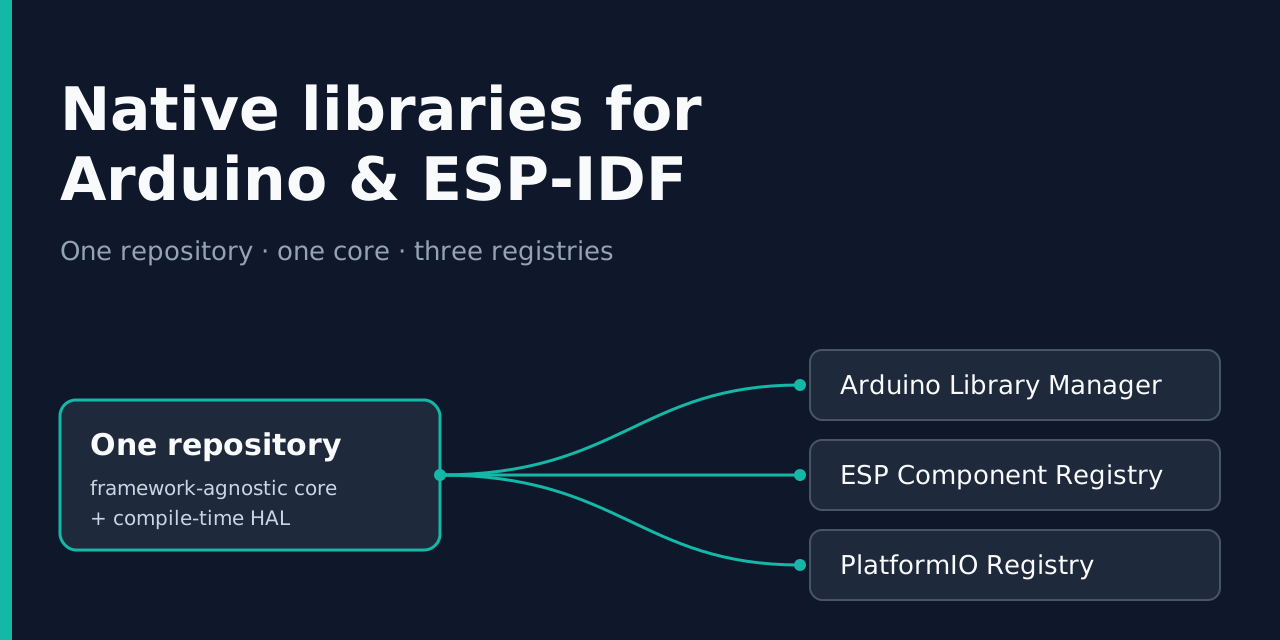
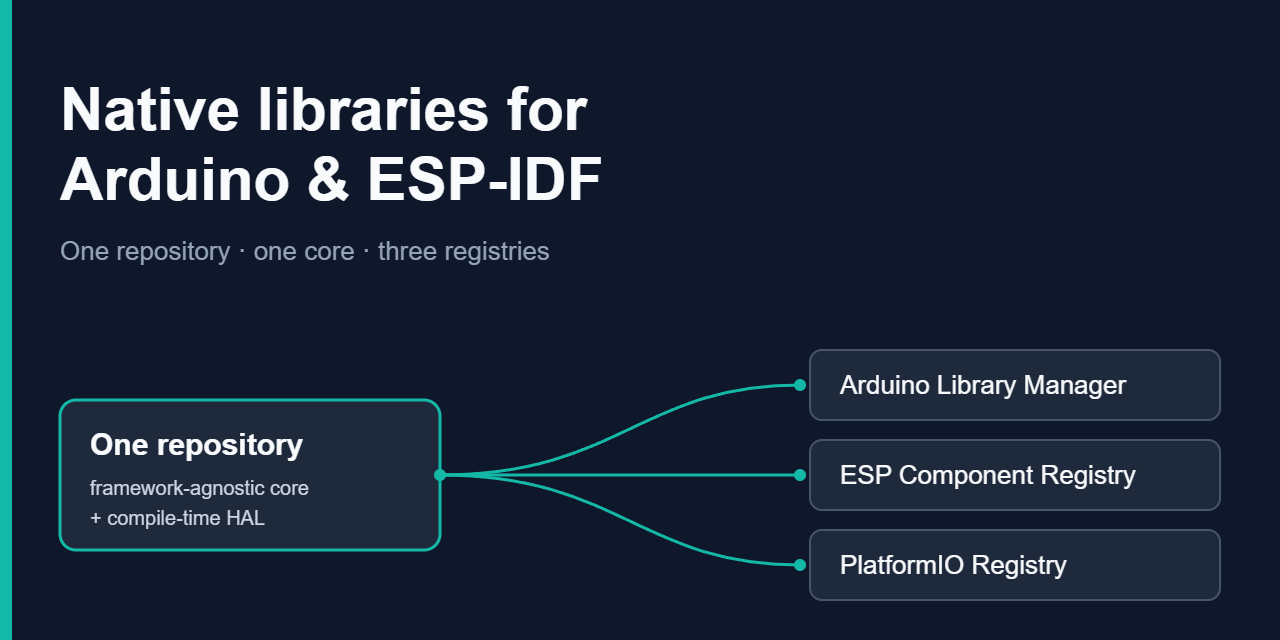
refactor the guide

diff --git a/chapters/06-minimal-example.md b/chapters/06-minimal-example.md
@@ -1,12 +1,12 @@
-# Appendix E — A Minimal Example
+# Chapter 6 — A Minimal Example
 
-This appendix puts the guide together in the smallest library that follows its rules: a `DualBlinkCpp` class that blinks one pin without blocking, through a compile-time HAL shared by Arduino and ESP-IDF. The buildable version lives in the [DualBlinkCpp - v1.1.1](https://github.com/FMazz97/DualBlinkCpp) repository, and the code below is a copy at the same tag, without the Doxygen comments (see them for complete details). The `Cpp` suffix keeps the plain `DualBlink` name free for a future variant. In the chapters, `Foo` remains the generic placeholder, and names follow [Appendix C](C-naming-convention.md).
+This chapter puts the guide together in the smallest library that follows its rules: a `DualBlinkCpp` class that blinks one pin without blocking, through a compile-time HAL shared by Arduino and ESP-IDF. The buildable version lives in the [DualBlinkCpp - v1.1.1](https://github.com/FMazz97/DualBlinkCpp) repository, and the code below is a copy at the same tag, without the Doxygen comments (see them for complete details). The `Cpp` suffix keeps the plain `DualBlink` name free for a future variant.
 
-> **Tested with:** Arduino IDE 2.3.x, PlatformIO (`framework = arduino` and `framework = espidf`, `espressif32@6.4.0` with IDF 5.1.1) and native ESP-IDF v6.1, on an Arduino Nano and on an ESP32 (`esp32dev`) mounted on a [Cheap Yellow Display](https://github.com/witnessmenow/ESP32-Cheap-Yellow-Display) board.
+> **Tested with:** Arduino IDE 2.3.x, PlatformIO (`framework = arduino` and `framework = espidf`, `espressif32@6.4.0` with IDF 5.1.1) and native ESP-IDF v6.1, on an Arduino Nano and on an ESP32 (`esp32dev`) board.
 
-## Repository tree
+## 6.1 Repository tree
 
-The repository is named `DualBlinkCpp` on GitHub (the Arduino library name, `PascalCase`) and cloned into a lowercase folder, which becomes the component name (see [Chapter 2](../chapters/02-repo-structure.md#22-local-folder-name-vs-github-repository-name)):
+The repository is named `DualBlinkCpp` on GitHub (the Arduino library name, `PascalCase`) and cloned into a lowercase folder, which becomes the component name (see [Chapter 2](02-repo-structure.md#22-local-folder-name-vs-github-repository-name)):
 
 ```bash
 git clone https://github.com/FMazz97/DualBlinkCpp.git dual_blink_cpp
@@ -32,13 +32,13 @@ dual_blink_cpp/                      ← repository root = component root
 ```
 
 > [!NOTE]
-> The repository also contains the files that check that the versions declared in the manifests are aligned. They are not part of the library and are left out of the tree above: see [Appendix F - Check Manifest Versions](F-manifest-version-check.md).
+> The repository also contains the files that check that the versions declared in the manifests are aligned. They are not part of the library and are left out of the tree above: see [Appendix E - Check Manifest Versions](../appendices/E-manifest-version-check.md).
 
 ---
 
-## The five source files
+## 6.2 The five source files
 
-### `src/hal/dual_blink_cpp_hal_arduino.h`
+### 6.2.1 `src/hal/dual_blink_cpp_hal_arduino.h`
 
 ```cpp
 #ifndef DUAL_BLINK_CPP_HAL_ARDUINO_H
@@ -54,7 +54,7 @@ dual_blink_cpp/                      ← repository root = component root
 #endif /* DUAL_BLINK_CPP_HAL_ARDUINO_H */
 ```
 
-### `src/hal/dual_blink_cpp_hal_espidf.h`
+### 6.2.2 `src/hal/dual_blink_cpp_hal_espidf.h`
 
 ```cpp
 #ifndef DUAL_BLINK_CPP_HAL_ESPIDF_H
@@ -71,9 +71,9 @@ dual_blink_cpp/                      ← repository root = component root
 #endif /* DUAL_BLINK_CPP_HAL_ESPIDF_H */
 ```
 
-The two HALs expose the same three macros, which expand directly inside the core methods and rely on its `_pin` member ([Chapter 3](../chapters/03-agnostic-core-hal-architecture.md)). `millis()` on Arduino and `esp_timer_get_time()` on ESP-IDF are the equivalent clocks: the blink never blocks.
+The two HALs expose the same three macros, which expand directly inside the core methods and rely on its `_pin` member ([Chapter 3](03-agnostic-core-hal-architecture.md)). `millis()` on Arduino and `esp_timer_get_time()` on ESP-IDF are the equivalent clocks: the blink never blocks.
 
-### `src/core/dual_blink_cpp.h`
+### 6.2.3 `src/core/dual_blink_cpp.h`
 
 ```cpp
 #ifndef DUAL_BLINK_CPP_CORE_H
@@ -115,9 +115,9 @@ class dual_blink_cpp {
 #endif /* DUAL_BLINK_CPP_CORE_H */
 ```
 
-`ARDUINO` is tested first because Arduino-ESP32 defines both macros. The methods follow the prefix scheme of [Appendix C](C-naming-convention.md): `set_level()`/`get_level()` and `set_interval_ms()`/`get_interval_ms()` are pairs, and the getters are `const` and never touch the hardware. `begin()` and `update()` are domain vocabulary, outside the scheme.
+`ARDUINO` is tested first because Arduino-ESP32 defines both macros. The methods follow the prefix scheme of [Appendix C](../appendices/C-naming-convention.md): `set_level()`/`get_level()` and `set_interval_ms()`/`get_interval_ms()` are pairs, and the getters are `const` and never touch the hardware. `begin()` and `update()` are domain vocabulary, outside the scheme.
 
-### `src/core/dual_blink_cpp.cpp`
+### 6.2.4 `src/core/dual_blink_cpp.cpp`
 
 ```cpp
 #include "dual_blink_cpp.h"
@@ -170,7 +170,7 @@ void dual_blink_cpp::write_level(bool level) {
 
 The core never calls an Arduino or ESP-IDF API directly: only the `DUAL_BLINK_CPP_*` macros. The unsigned subtraction `now - _last_toggle_ms` stays correct when the millisecond counter wraps around.
 
-### `src/DualBlinkCpp.h`
+### 6.2.5 `src/DualBlinkCpp.h`
 
 ```cpp
 #ifndef DUAL_BLINK_CPP_H
@@ -201,9 +201,9 @@ class DualBlinkCpp {
 
 ---
 
-## The manifests
+## 6.3 The manifests
 
-### `library.properties` (Arduino)
+### 6.3.1 `library.properties` (Arduino)
 
 ```properties
 name=DualBlinkCpp
@@ -218,7 +218,7 @@ architectures=*
 includes=DualBlinkCpp.h
 ```
 
-### `library.json` (PlatformIO)
+### 6.3.2 `library.json` (PlatformIO)
 
 ```json
 {
@@ -267,9 +267,9 @@ includes=DualBlinkCpp.h
 }
 ```
 
-The `"build"` flag exposes `src/core/` to PlatformIO, as explained in [Chapter 2](../chapters/02-repo-structure.md#213-platformio-source--include-path).
+The `"build"` flag exposes `src/core/` to PlatformIO, as explained in [Chapter 2](02-repo-structure.md#213-platformio-source--include-path).
 
-### `idf_component.yml` (ESP-IDF)
+### 6.3.3 `idf_component.yml` (ESP-IDF)
 
 ```yaml
 version: "1.1.1"
@@ -299,9 +299,9 @@ files:
     - "scripts/*"
 ```
 
-The entries marked with `*` are optional: leave them out of the exclusions to support Arduino as an ESP-IDF component ([Chapter 5](../chapters/05-publishing.md#521-manifest-and-metadata)). Add the `examples` key when the repository has examples.
+The entries marked with `*` are optional: leave them out of the exclusions to support Arduino as an ESP-IDF component ([Chapter 5](05-publishing.md#521-manifest-and-metadata)). Add the `examples` key when the repository has examples.
 
-### `CMakeLists.txt` (ESP-IDF)
+### 6.3.4 `CMakeLists.txt` (ESP-IDF)
 
 ```cmake
 # Select dependencies based on ESP-IDF version
@@ -327,7 +327,7 @@ idf_component_register(
 
 ---
 
-## Using the library
+## 6.4 Using the library
 
 **Arduino sketch** (`examples/BasicExample/BasicExample.ino`):
 
@@ -376,14 +376,14 @@ extern "C" void app_main(void) {
 }
 ```
 
-On ESP-IDF a polling loop must hand control back to the scheduler, with `vTaskDelay(1)` and not `taskYIELD()` ([Appendix B](B-yield-interrupts.md)). The example layouts, the `platformio.ini` and the dependency declarations are described in [Chapter 4](../chapters/04-examples.md).
+On ESP-IDF a polling loop must hand control back to the scheduler, with `vTaskDelay(1)` and not `taskYIELD()` ([Appendix B](../appendices/B-yield-interrupts.md)). The example layouts, the `platformio.ini` and the dependency declarations are described in [Chapter 4](04-examples.md).
 
 ---
 
 <!-- markdownlint-disable MD033 -->
 <div align="center">
 
-[⬅ Appendix D - Testing During Development](D-testing-during-development.md) — [Introduction](../README.md) — [Appendix F - Check Manifest Versions ➡](F-manifest-version-check.md)
+[⬅ Chapter 5 - Publishing](05-publishing.md) — [Introduction](../README.md) — [Chapter 7 - Conclusions ➡](07-conclusions.md)
 
 </div>
 <!-- markdownlint-enable MD033 -->

diff --git a/chapters/07-conclusions.md b/chapters/07-conclusions.md
@@ -1,10 +1,10 @@
-# Chapter 6 — Conclusions
+# Chapter 7 — Conclusions
 
 The guide started from a question: why accept the complexity of supporting both Arduino and ESP-IDF natively, instead of choosing one ecosystem or relying on a compatibility layer? This chapter collects what the answer turned out to be, what remains open, and where to go from here.
 
 ---
 
-## 6.1 What the guide settled
+## 7.1 What the guide settled
 
 Five decisions, each following from the previous one:
 
@@ -13,12 +13,13 @@ Five decisions, each following from the previous one:
 3. **A framework-agnostic core** ([Chapter 3](03-agnostic-core-hal-architecture.md)). Protocol logic is written once, hardware access is selected at compile time through a HAL, and the Arduino facade only forwards.
 4. **Examples that build with both toolchains** ([Chapter 4](04-examples.md)). One project layout for `idf.py` and PlatformIO, with one dependency declaration per toolchain.
 5. **Publication as a design concern** ([Chapter 5](05-publishing.md)). Three registries with different manifests, filters, and immutability rules, and a package name decided before the first publish.
+6. **A pratical examples**[Chapter 6](06-minimal-example.md). A minimal library that demonstrating how to implement the guide.
 
-The [Final Checklist](07-final-checklist.md) condenses them, in the order in which they come up.
+The [Final Checklist](08-final-checklist.md) condenses them, in the order in which they come up.
 
 ---
 
-## 6.2 What remains open
+## 7.2 What remains open
 
 The guide rests on a single library and a single design (see the warning at the end of the [Introduction](../README.md#-the-purpose-of-this-repository)). Where it reports an observation instead of a documented fact, it says so in the text: this section collects what was not verified and the limits found along the way, and each point is a good starting point for a contribution.
 
@@ -40,7 +41,7 @@ The guide rests on a single library and a single design (see the warning at the 
 
 ---
 
-## 6.3 Beyond Arduino & ESP-IDF: Extending and Contributing
+## 7.3 Beyond Arduino & ESP-IDF: Extending and Contributing
 
 While this guide focused on bridging Arduino, ESP-IDF, and PlatformIO, the underlying patterns (unified source layouts, explicit dependency management, and reciprocal registry exclusions) are likely applicable to the wider embedded ecosystem. The appendices go deeper on the technical details:
 
@@ -48,8 +49,7 @@ While this guide focused on bridging Arduino, ESP-IDF, and PlatformIO, the under
 - **[Appendix B: Yield & Interrupts](../appendices/B-yield-interrupts.md)**: how long blocking operations cooperate with the scheduler across AVR, ESP8266, and FreeRTOS-based ESP32 targets and how to protecting a transaction during a critical sections.
 - **[Appendix C: Naming Convention](../appendices/C-naming-convention.md)**: what a method name promises, and how case styles map across the core and the Arduino facade.
 - **[Appendix D: Testing During Development](../appendices/D-testing-during-development.md)**: one example tested on many boards with PlatformIO, and the layouts that keep it reliable.
-- **[Appendix E - Minimal Example](../appendices/E-minimal-example.md)**: a minimal library demonstrating how to implement the guide.
-- **[Appendix F - Check Manifest Versions](../appendices/F-manifest-version-check.md)**: how to keep the manifest aligned.
+- **[Appendix E - Check Manifest Versions](../appendices/E-manifest-version-check.md)**: how to keep the manifest aligned.
 
 The same approach should carry over to other families and frameworks, such as STM32 with its Arduino and STM32Cube frameworks, where a new HAL would be the only framework-specific addition, or Zephyr (not tested here). The embedded landscape keeps evolving, with new microcontrollers and alternative build systems continuing to emerge. If you want to extend this framework-agnostic approach to other platforms, refine the appendices, or share your own experience, issues and pull requests are always welcome: embedded development thrives on shared knowledge.
 
@@ -58,7 +58,7 @@ The same approach should carry over to other families and frameworks, such as ST
 <!-- markdownlint-disable MD033 -->
 <div align="center">
 
-[⬅ Chapter 5 - Publishing](05-publishing.md) — [Introduction](../README.md) — [Final Checklist ➡](07-final-checklist.md)
+[⬅ Chapter 6 - Minimal Example](06-minimal-example.md) — [Introduction](../README.md) — [Final Checklist ➡](08-final-checklist.md)
 
 </div>
 <!-- markdownlint-enable MD033 -->

diff --git a/appendices/E-manifest-version-check.md b/appendices/E-manifest-version-check.md
@@ -40,7 +40,7 @@ Copy `scripts/check_versions.py`, `.githooks/pre-push` and `.github/workflows/ch
 >
 > If a push does not print a `pre-push: checking …` line, the hook is not active.
 
-Keep the hook on LF line endings (`.githooks/* text eol=lf` in `.gitattributes`) or its first line breaks on Windows, and set the executable bit for Linux and macOS users: `git update-index --chmod=+x .githooks/pre-push`.
+Keep the hook on LF line endings — `.githooks/* text eol=lf` in `.gitattributes` — or its first line breaks on Windows, and set the executable bit for Linux and macOS users: `git update-index --chmod=+x .githooks/pre-push`.
 
 **Release flow:** bump all three manifests in a single commit and push; create the tag with the same version; then **bump to the next version immediately**, because until then the version equals the last tag and every push is rejected.
 
@@ -48,7 +48,7 @@ Keep the hook on LF line endings (`.githooks/* text eol=lf` in `.gitattributes`)
 
 ## Assumptions
 
-- The manifests are at the repository root, each with a **top-level** version key (versions of dependencies are not read). Other names or paths: edit `MANIFESTS` in the script.
+- The manifests are at the repository root, each with a **top-level** version key (versions of dependencies are not read).
 - Versions are semantic; tags are compared with semver precedence and non-semver tags are ignored.
 - Python 3 is available, and there is a single version line (no hotfixes on older versions).
 
@@ -56,7 +56,7 @@ Keep the hook on LF line endings (`.githooks/* text eol=lf` in `.gitattributes`)
 
 ## Limits
 
-- **The hook is per-clone**, can be skipped with `git push --no-verify`, and skips the check, with a message, if no working Python is found.
+- **The hook is per-clone**, can be skipped with `git push --no-verify`. The check will skipped with a message if no working Python is found.
 - **GitHub cannot block a push**, only report it. A required status check on `main` blocks merges, but only through pull requests.
 - **Nothing protects `main` by default.** Branch protection is a setting of each GitHub repository, not part of the files: without it, a merge made on the website skips the hook and a failing check does not stop it.
 - **A Release created on the GitHub website never passes through the hook.** Only the workflow sees it, afterwards. The deletion job, verified in a test repository, removes the tag within moments, but a registry may have looked at it first.
@@ -69,7 +69,7 @@ Keep the hook on LF line endings (`.githooks/* text eol=lf` in `.gitattributes`)
 <!-- markdownlint-disable MD033 -->
 <div align="center">
 
-[⬅ Appendix E - Minimal Example](E-minimal-example.md) — [Introduction](../README.md)
+[⬅ Appendix D - Testing During Development](D-testing-during-development.md) — [Introduction](../README.md)
 
 </div>
 <!-- markdownlint-enable MD033 -->

diff --git a/chapters/08-final-checklist.md b/chapters/08-final-checklist.md
@@ -107,7 +107,7 @@ External sources cited throughout the guide, grouped by ecosystem, including the
 - [`includeDir`](https://docs.platformio.org/en/stable/manifests/library-json/fields/build/includedir.html): default include paths of a library (Ch. 2).
 - [Espressif 32 ESP-IDF framework](https://docs.platformio.org/en/latest/frameworks/espidf.html): project structure, `src_dir`, and limitations (Ch. 4, 5).
 - [Package Management CLI](https://docs.platformio.org/en/latest/core/userguide/pkg/index.html): `pio pkg pack` and `pio pkg publish` (Ch. 5).
-- [PlatformIO Issue #12672](https://github.com/platformio/platformio-home/issues/12672): PIO Home flattening multi-file `examples` entries (Ch. 5, 6).
+- [PlatformIO Issue #12672](https://github.com/platformio/platformio-home/issues/12672): PIO Home flattening multi-file `examples` entries (Ch. 5, 7).
 
 ### Reference implementation
 
@@ -133,15 +133,13 @@ External sources cited throughout the guide, grouped by ecosystem, including the
   - [ESP-IDF Style Guide](https://docs.espressif.com/projects/esp-idf/en/stable/esp32/contribute/style-guide.html): `snake_case` in C and C++, and the type and constant conventions.
 - **Appendix D, Testing During Development**
   - No external sources beyond those already listed (PlatformIO and ESP-IDF documentation). The behaviour described was observed on hardware and checked in the framework sources.
-- **Appendix E, A Minimal Example**
-  - [Cheap Yellow Display](https://github.com/witnessmenow/ESP32-Cheap-Yellow-Display): the ESP32 board on which the example was tested.
 
 ---
 
 <!-- markdownlint-disable MD033 -->
 <div align="center">
 
-[⬅ Chapter 6 - Conclusions](06-conclusions.md) — [Introduction](../README.md)
+[⬅ Chapter 7 - Conclusions](07-conclusions.md) — [Introduction](../README.md)
 
 </div>
 <!-- markdownlint-enable MD033 -->

diff --git a/README.md b/README.md
@@ -20,16 +20,18 @@
   - [Chapter 3 - Agnostic Core & HAL Architecture](chapters/03-agnostic-core-hal-architecture.md)
   - [Chapter 4 - Example Conventions](chapters/04-examples.md)
   - [Chapter 5 - Publishing](chapters/05-publishing.md)
-  - [Chapter 6 - Conclusions](chapters/06-conclusions.md)
-  - [Final Checklist](chapters/07-final-checklist.md)
+  - [Chapter 6 - Minimal Example](chapters/06-minimal-example.md)
+  - [Chapter 7 - Conclusions](chapters/07-conclusions.md)
+  - [Final Checklist](chapters/08-final-checklist.md)
 
-- **Appendices:**
-  - [Appendix A - IDF Dependency Resolution](appendices/A-esp-idf-dependency-resolution.md)
-  - [Appendix B - Yield & Interrupts](appendices/B-yield-interrupts.md)
-  - [Appendix C - Naming Convention](appendices/C-naming-convention.md)
-  - [Appendix D - Testing During Development](appendices/D-testing-during-development.md)
-  - [Appendix E - Minimal Example](appendices/E-minimal-example.md)
-  - [Appendix F - Check Manifest Versions](appendices/F-manifest-version-check.md)
+- Appendices:
+  - Technical background:
+    - [Appendix A - IDF Dependency Resolution](appendices/A-esp-idf-dependency-resolution.md)
+    - [Appendix B - Yield & Interrupts](appendices/B-yield-interrupts.md)
+    - [Appendix C - Naming Convention](appendices/C-naming-convention.md)
+  - Development workflow
+    - [Appendix D - Testing During Development](appendices/D-testing-during-development.md)
+    - [Appendix E - Check Manifest Versions](appendices/E-manifest-version-check.md)
 
 - **Licenses:**
   - [LICENSE](LICENSE)

diff --git a/appendices/D-testing-during-development.md b/appendices/D-testing-during-development.md
@@ -162,7 +162,7 @@ The Arduino IDE only looks in its own `libraries` folder, so the only way to tes
 <!-- markdownlint-disable MD033 -->
 <div align="center">
 
-[⬅ Appendix C - Naming Convention](C-naming-convention.md) — [Introduction](../README.md) — [Appendix E - Minimal Example ➡](E-minimal-example.md)
+[⬅ Appendix C - Naming Convention](C-naming-convention.md) — [Introduction](../README.md) — [Appendix E - Check Manifest Versions ➡](E-manifest-version-check.md)
 
 </div>
 <!-- markdownlint-enable MD033 -->

diff --git a/chapters/05-publishing.md b/chapters/05-publishing.md
@@ -284,7 +284,7 @@ PlatformIO allows flexibility in package naming and can resolve dependencies acr
 <!-- markdownlint-disable MD033 -->
 <div align="center">
 
-[⬅ Chapter 4 - Example Conventions](04-examples.md) — [Introduction](../README.md) — [Chapter 6 - Conclusions ➡](06-conclusions.md)
+[⬅ Chapter 4 - Example Conventions](04-examples.md) — [Introduction](../README.md) — [Chapter 6 - Minimal Example ➡](06-minimal-example.md)
 
 </div>
 <!-- markdownlint-enable MD033 -->
